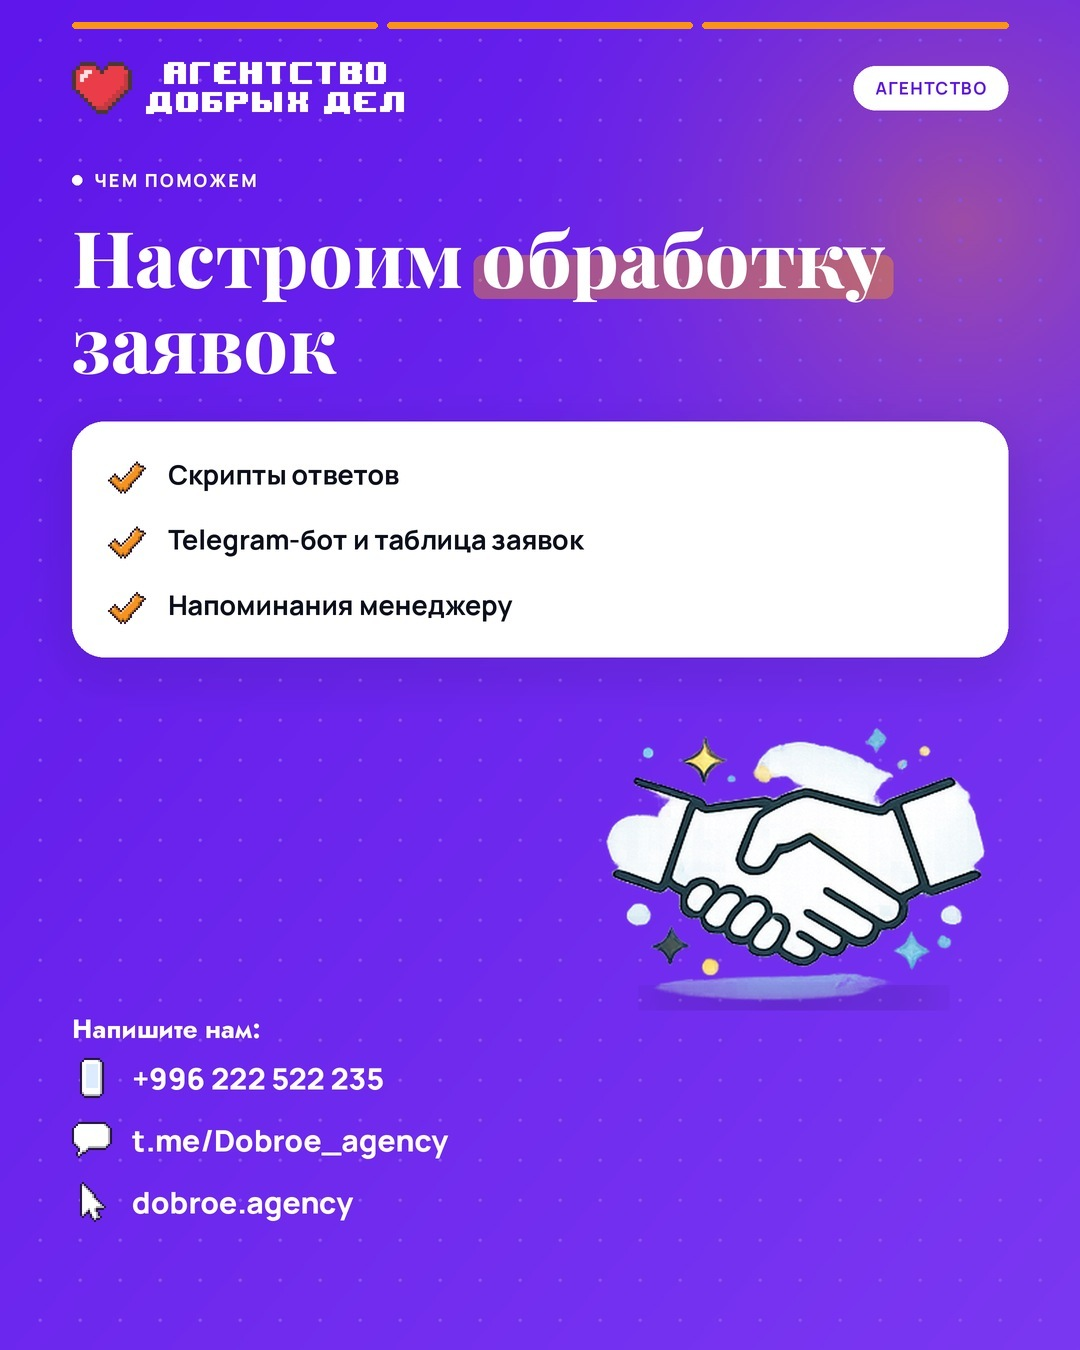
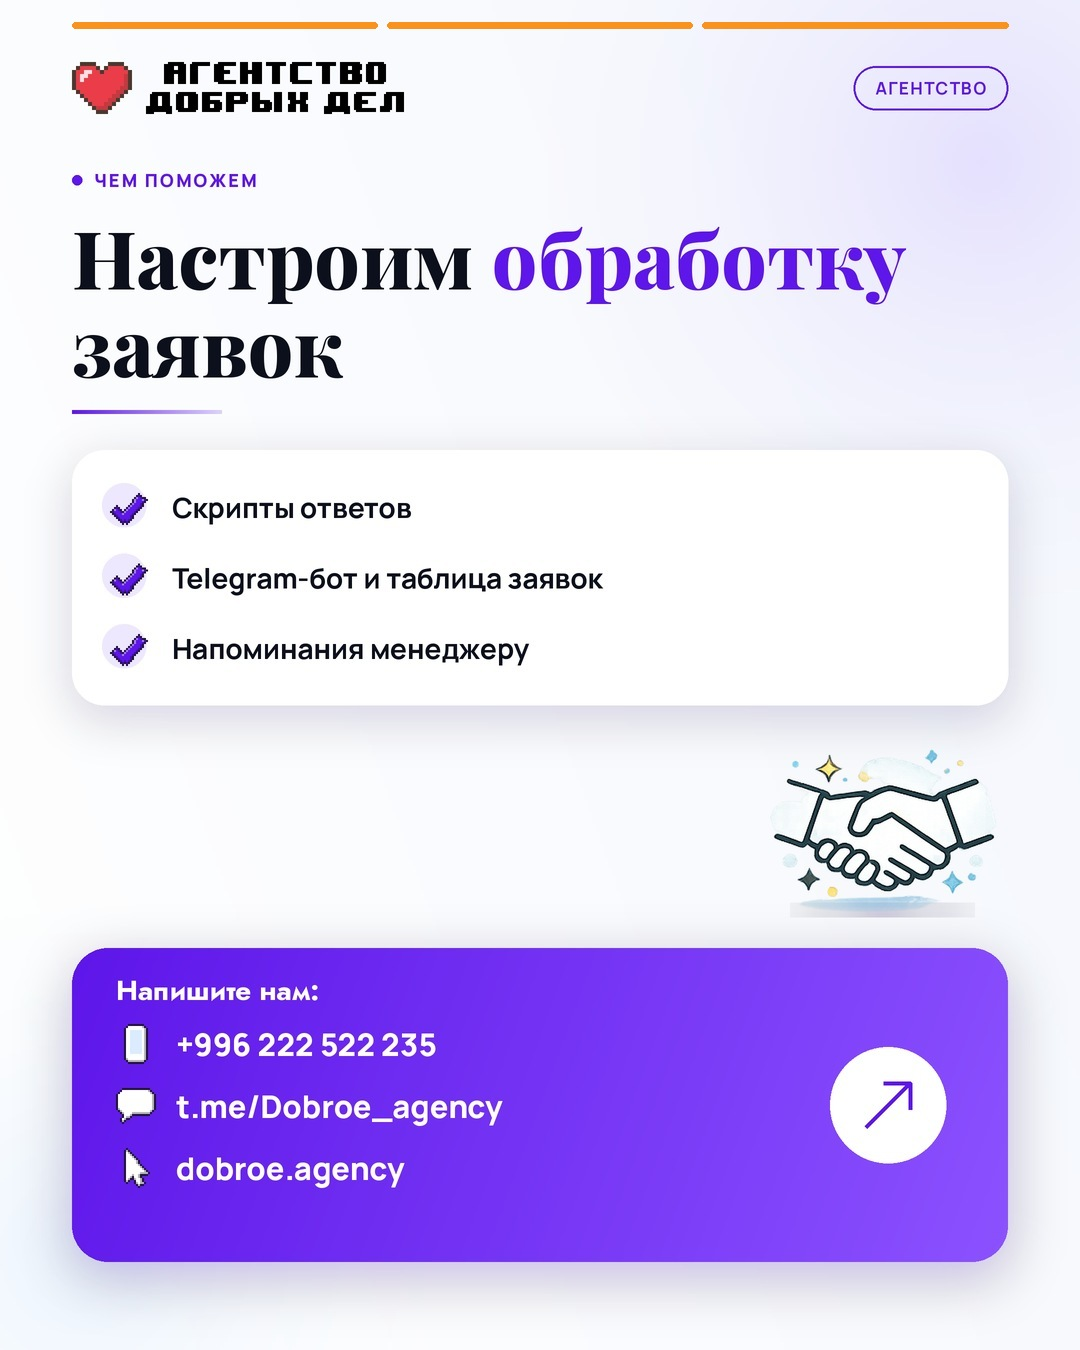
Слайд offer в стиле сайта (светлый фон, фиолетовая плашка с контактами); poster без тонкого кольца
Claude-Session: https://claude.ai/code/session_013hygokiFc3UAV7jtVext4a

diff --git a/templates/render.py b/templates/render.py
@@ -1279,60 +1279,71 @@ def L_team(c, cfg):
 
 
 def L_offer(c, cfg):
-    """последний слайд карусели / продающий пост: услуга агентства по теме + контакты"""
-    a = acc(cfg, "orange")
-    bg_grad(c, V1, V2, 40)
-    glow(c, 960, 220, 520, a, 0.35)
-    dots(c, mix(V1, WHITE, 0.25))
-    header(c, cfg, dark=True, label_style={"bg": WHITE, "fg": V1})
+    """последний слайд карусели / продающий пост: услуга агентства по теме + контакты.
+    Стиль сайта dobroe.agency (владелец 14.11): светлый фон, тёмный заголовок с фиолетовым акцентом,
+    белая карточка с пунктами, фиолетовая плашка-кнопка с контактами."""
+    bg_grad(c, (244, 247, 253), (255, 255, 255), 160)
+    glow(c, 980, 160, 520, (190, 170, 255), 0.30)
+    glow(c, 80, 1250, 420, (200, 225, 255), 0.35)
+    header(c, cfg, dark=False)
     y = 170
-    kicker(c, M, y, cfg.get("kicker", "ЧЕМ ПОМОЖЕМ"), WHITE)
+    kicker(c, M, y, cfg.get("kicker", "ЧЕМ ПОМОЖЕМ"), V1)
     y += 46
-    s, f, lines = fit(c, cfg["title"], "serif", 800, W - 2 * M, 300, 78, lh=1.1)
-    y = draw_rich(c, lines, f, s, M, y, WHITE, WHITE, "marker", lh=1.1, deco=a)
+    s, f, lines = fit(c, cfg["title"], "serif", 800, W - 2 * M, 300, 80, lh=1.1)
+    y = draw_rich(c, lines, f, s, M, y, INK, V1, "color", lh=1.1)
+    g = lin_grad(px(150), px(4), V1, (220, 210, 255), 0)
+    c.paste(g.convert("RGBA"), px(M), px(y + 18))
     items = cfg.get("items", [])[:4]
-    top = y + 34
+    top = y + 58
     contacts = [("phone", "+996 222 522 235"), ("chat", "t.me/Dobroe_agency"), ("cursor", "dobroe.agency")]
-    ctop = 1300 - 70 - len(contacts) * 62
-    tf = font("sans", 27, 700)
+    ctop = 1300 - 96 - len(contacts) * 62
+    ptop = ctop - 70
+    limit = ptop - 34
+    tf = font("sans", 28, 700)
     hh = 0
     rows = []
     if items:
         rows = [plain_wrap(c, it, tf, W - 2 * M - 140) for it in items]
         if any(len(r) > 2 for r in rows):
             raise Fail("Пункт оффера длинный: максимум 2 строки")
-        hh = sum(30 + len(r) * 27 * 1.3 for r in rows) + 40
-        if top + hh > ctop - 40:
+        hh = sum(34 + len(r) * 28 * 1.3 for r in rows) + 44
+        if top + hh > limit:
             raise Fail("Оффер не влезает: сократи заголовок или пункты")
-    free = ctop - 40 - (top + hh)
+    free = limit - (top + hh)
     art = cfg.get("art")
-    if art and free < 200:
+    if art and free < 170:
         raise Fail("Мало места для иллюстрации в offer: сократи текст или убери art")
     if not art:
         top += free * 0.3
     if items:
         card(c, [M, top, W - M, top + hh], r=32)
-        yy = top + 34
+        yy = top + 38
         for r in rows:
-            put_icon(c, "check", M + 34, yy + 2, 2, color=a if a != ACCENTS["violet"] else GREEN)
+            blob(c, M + 52, yy + 17, 22, (238, 232, 255), 255)
+            put_icon(c, "check", M + 36, yy + 1, 2, color=V1)
             for k, l in enumerate(r):
-                c.text(M + 96, yy + k * 27 * 1.3, l, tf, INK)
-            yy += 30 + len(r) * 27 * 1.3
+                c.text(M + 100, yy + k * 28 * 1.3, l, tf, INK)
+            yy += 34 + len(r) * 28 * 1.3
     if art:
-        ah = min(free - 30, 420)
-        y0 = top + hh + 20
+        ah = min(free - 20, 400)
+        y0 = top + hh + 10
         im = art_img(art)
-        aw = min(W - 2 * M, (ah) * im.width / im.height)
+        aw = min(W - 2 * M, ah * im.width / im.height)
         ah = aw * im.height / im.width
-        put_art(c, art, W - M - aw / 2 + (0 if aw > 500 else -20), y0 + (free - 10 - ah) / 2, w=aw, anchor="mt")
-    if cfg.get("cta"):
-        cf = font("jost", 26, 700)
-        c.text(M, ctop - 6, cfg["cta"], cf, WHITE, anchor="ls")
-    cf = font("sans", 30, 800)
+        put_art(c, art, W - M - aw / 2 - 10, y0 + (free - ah) / 2, w=aw, anchor="mt")
+    # фиолетовая плашка как кнопка «Обсудить проект» на сайте
+    shadow(c, [M, ptop, W - M, 1262], r=36, color=(94, 22, 234), alpha=70, blur=26, dy=16)
+    card(c, [M, ptop, W - M, 1262], r=36, sh=False, grad=(V1, (140, 82, 255), 20))
+    cf = font("jost", 28, 700)
+    c.text(M + 44, ptop + 52, cfg.get("cta") or "Напишите нам:", cf, WHITE, anchor="ls")
+    cf = font("sans", 31, 800)
     for i, (ic, t) in enumerate(contacts):
-        cy = ctop + 14 + i * 62
-        put_icon(c, ic, M, cy, 2, color=WHITE)
-        c.text(M + 60, cy + 20, t, cf, WHITE, anchor="lm")
+        cy = ctop + 6 + i * 62
+        put_icon(c, ic, M + 44, cy, 2, color=WHITE)
+        c.text(M + 104, cy + 20, t, cf, WHITE, anchor="lm")
+    bx, by = W - M - 120, ptop + (1262 - ptop) / 2
+    blob(c, bx, by, 58, WHITE, 255)
+    arrow_ne(c, bx, by, 22, V1, w=4)
 
 
 # ================================================================ bold posters (мало текста, крупная картинка)
@@ -1411,7 +1422,7 @@ def L_poster(c, cfg):
     flip = cfg.get("flip", False)
     vcx, vcy = (W * r.choice([0.5, 0.62, 0.38]), 860) if not flip else (W * 0.5, 430)
     blob(c, vcx, vcy, r.choice([300, 340, 380]), mix(th[0], WHITE, 0.25), 120)
-    ring(c, vcx + r.choice([-60, 60]), vcy - 20, 430, th[2], 2, 60)
+    r.choice([-60, 60])  # раньше тонкое кольцо; убрано (пересекало заголовок), выбор оставлен для стабильного random
     poster_head(c, cfg, th)
     s, f, lines = fit(c, cfg["title"], "jost", 800, W - 2 * M, 420, 150, smin=70, lh=1.0, max_lines=4)
     th_h = len(lines) * s * 1.0
